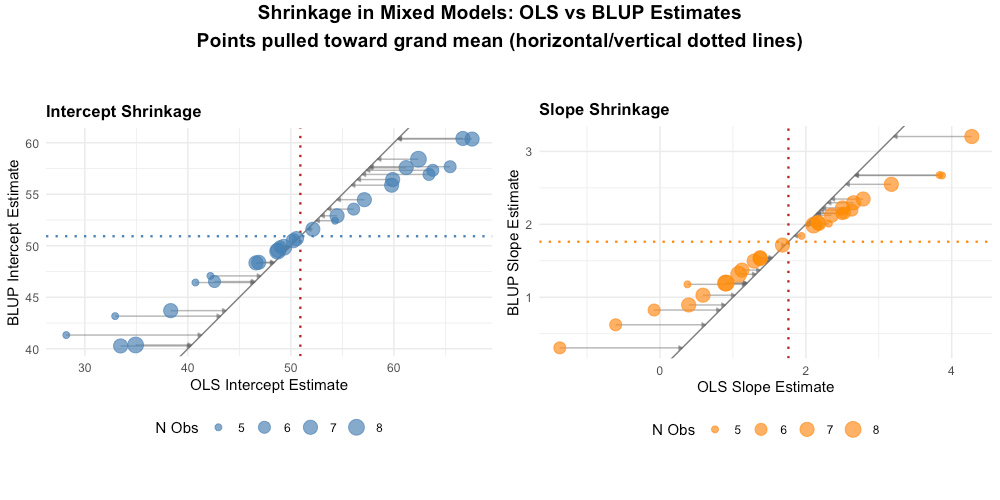
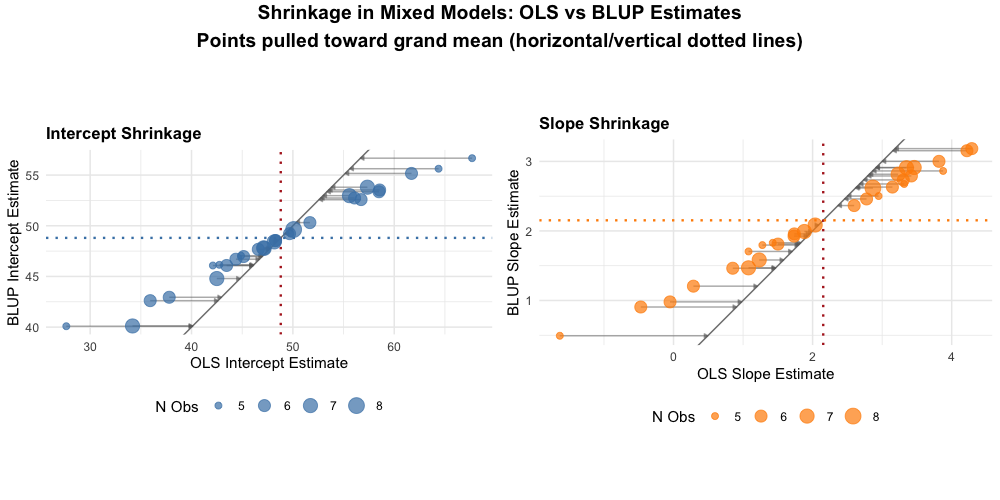
style(guides): align LMM overview with LGCM structural conventions
Add spaghetti plot figure, tip callout linking to LGCM, SVG replacing
ASCII art for random effects comparison, and scope callout. Regenerate
shrinkage and ICC figures at higher resolution.

diff --git a/content/guides/lmm.md b/content/guides/lmm.md
@@ -13,6 +13,13 @@ When you measure the same people repeatedly, your observations aren't independen
 
 Consider a simple example: 200 participants measured at 5 time points each. You have 1,000 observations, but they're not 1,000 independent pieces of information. The 5 observations from Person 1 are more similar to each other than to observations from Person 47.
 
+<figure style="margin: 1.5rem 0;">
+<img src="/images/guides/lmm/lmm_fig01_spaghetti.png" alt="Individual Growth Trajectories" style="border-radius: 8px; border: 1px solid rgba(255,255,255,0.1);" />
+<figcaption style="font-style: italic; margin-top: 0.5rem; color: rgba(255,255,255,0.7);">Each gray line is one person's trajectory across 5 waves. The blue line is the group mean. Some people start high and stay flat; others start low and climb. The mean trajectory hides this individual variation.</figcaption>
+</figure>
+
+The mean tells you "the group improved"—but the real questions are about the spread: How much do starting points vary? Do people change at different rates? Standard approaches handle these poorly:
+
 | Approach                    | What It Does                                | Problem                                                                     |
 | --------------------------- | ------------------------------------------- | --------------------------------------------------------------------------- |
 | **Ignore nesting**          | Treat all 1,000 observations as independent | SEs too small, p-values too optimistic                                      |
@@ -26,6 +33,12 @@ Consider a simple example: 200 participants measured at 5 time points each. You 
 - **Random effects**: Parameters that vary across individuals (person-specific deviations)
 
 **Quick mental model**: Think of LMM as "fit one regression line per person, then summarize those lines." Each individual gets their own intercept and slope, but these estimates are informed by the whole sample—extreme values get pulled toward the group average, and people with sparse data borrow strength from others.
+
+---
+
+> [!tip] **Before You Continue**
+>
+> If you're familiar with [LGCM](/guides/lgcm), LMM estimates the same growth parameters—intercept means/variances, slope means/variances, and their covariance—using a multilevel regression framework instead of SEM. For basic linear growth, the two approaches produce identical estimates. LMM's advantages emerge with unbalanced data, person-specific timing, and time-varying covariates.
 
 ---
 
@@ -198,21 +211,15 @@ Each person has their own intercept AND slope. Lines can have different starting
 
 ### Visualizing the Difference
 
-```
-Random Intercept Only          Random Intercept + Slope
-(parallel lines)               (non-parallel lines)
+![Random Effects Comparison](/images/guides/lmm/random_effects_comparison.svg)
 
-    │    ╱                         │      ╱
-    │   ╱                          │   ╱╱
-    │  ╱                           │  ╱ ╱
-    │ ╱                            │ ╱  ╱
-    │╱                             │╱  ╱
-    └──────────                    └─────────
-       Time                           Time
+*Left: Random intercept only — lines are parallel (everyone changes at the same rate) but start at different levels. Right: Random intercept + slope — lines can cross because people differ in both starting level and rate of change. The dark line is the mean trajectory in both cases.*
 
-All same slope,                  Different people,
-different intercepts             different slopes
-```
+<div class="sr-only">
+
+Two panels comparing random effect structures. Left panel (Random Intercept Only): Seven parallel lines at different vertical positions, all with the same slope, showing that individuals differ in starting level but change at the same rate. Right panel (Random Intercept + Slope): Seven non-parallel lines with different angles, some steep and some flat, showing that individuals differ in both starting level and rate of change. A thicker mean trajectory line appears in both panels.
+
+</div>
 
 ---
 
@@ -426,6 +433,10 @@ You now have the conceptual foundation for understanding LMM:
 - **ICC** tells you how much variance is between- vs. within-person, justifying the mixed model approach
 
 This is enough to understand what LMM does and why. To actually _fit_ one, continue to the worked example.
+
+> [!info] **Scope**
+>
+> This overview covers two-level linear mixed models for continuous outcomes with a single clustering variable (persons). Not covered: three-level models (e.g., observations within persons within sites), generalized mixed models for binary/count outcomes ([GLMM](/guides/glmm)), Bayesian estimation ([brms](https://cran.r-project.org/package=brms)), nonlinear growth curves, and multivariate mixed models. See the tutorial links for code and estimation details.
 
 ---
 
